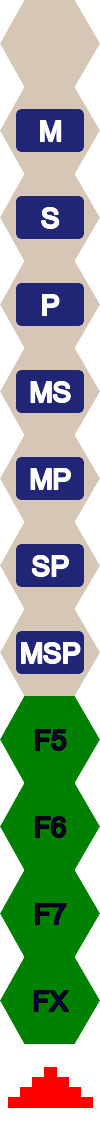
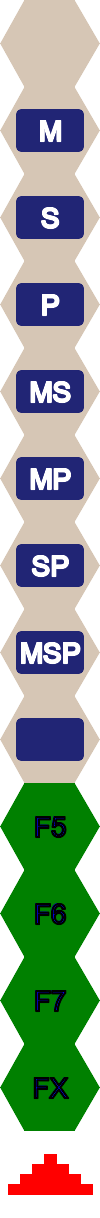
Work on better playerboard rendering

diff --git a/babylonia.css b/babylonia.css
@@ -84,7 +84,7 @@
 {
     height: var(--hh);
     width: var(--hw);
-    background-size: 100% 1300%;
+    background-size: 100% 1400%;
 }
 
 .city_back  {
@@ -92,9 +92,6 @@
 }
 .city_m    {
     background: url(img/cities.png) 0% -100%;
-}
-.city_msp {
-    background: url(img/cities.png) 0% -700%;
 }
 .city_p    {
     background: url(img/cities.png) 0% -300%;
@@ -111,20 +108,26 @@
 .city_sp   {
     background: url(img/cities.png) 0% -600%;
 }
-.field_5     {
+.city_msp {
+    background: url(img/cities.png) 0% -700%;
+}
+.city_blank {
     background: url(img/cities.png) 0% -800%;
 }
-.field_6     {
+.field_5     {
     background: url(img/cities.png) 0% -900%;
 }
-.field_7     {
+.field_6     {
     background: url(img/cities.png) 0% -1000%;
 }
-.field_X     {
+.field_7     {
     background: url(img/cities.png) 0% -1100%;
 }
-.ziggurat   {
+.field_X     {
     background: url(img/cities.png) 0% -1200%;
+}
+.ziggurat   {
+    background: url(img/cities.png) 0% -1300%;
 }
 
 .board  .farmer_1,
@@ -337,13 +340,35 @@ div.zc_river {
     background-position: -800% 0%;
 }
 
+/*
+ * Player boards
+ */
+
 div.b_handpoolcity {
     display: inline-block;
 }
 
 div.b_handpoolcity > div {
     display: inline-block;
-    background-color: #ccccff;
+}
+
+div.b_handpoolcity .b_citycount_label {
+    display: inline-block;
+    height: 2.1em;
+    width: 2.4em;
+    background: url(img/cities.png) 0% -800%;
+    background-color: transparent;
+    background-size: 100% 1400%;
+}
+
+div.b_ziggurats span.b_ziggurat_label {
+/*    margin: 3px; */
+    display: inline-block;
+    height: 2.1em; /* 42px; */
+    width: 2.1em; /* 48px; */
+    background: url(img/cities.png) 0% -1300%;
+    background-color: transparent;
+    background-size: 100% 1400%;
 }
 
 div.b_ziggurats > div {
@@ -355,6 +380,11 @@ div.b_ziggurats > div {
     background-size: 1000% 100%;
     background-image: url(img/ziggurats.png);
 }
+
+
+/*
+ * image action buttons
+ */
 
 a.action-button:has(> div.ziggurat) {
     padding: 0;
@@ -371,6 +401,10 @@ a.action-button > div.ziggurat {
     background-image: url(img/ziggurats.png);
 }
 
+/*
+ * rendering log messages
+ *   particularly images for pieces
+ */
 
 .log-element.merchant_1,
 .log-element.priest_1,
@@ -395,7 +429,7 @@ a.action-button > div.ziggurat {
     background-color: transparent;
     height: 2.1em;
     width: 2.1em;
-    background-size: 100% 1300%;
+    background-size: 100% 1400%;
     background-image: url(img/pieces.png);
     background-size: 400% 500%;
 }
@@ -420,6 +454,6 @@ a.action-button > div.ziggurat {
     margin: 0;
     padding: 0;
     background-color: transparent;
-    background-size: 100% 1300%;
+    background-size: 100% 1400%;
     background-image: url(img/cities.png);
 }
